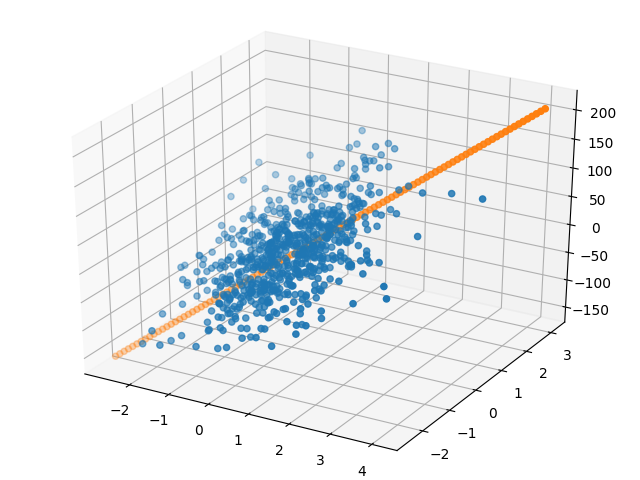
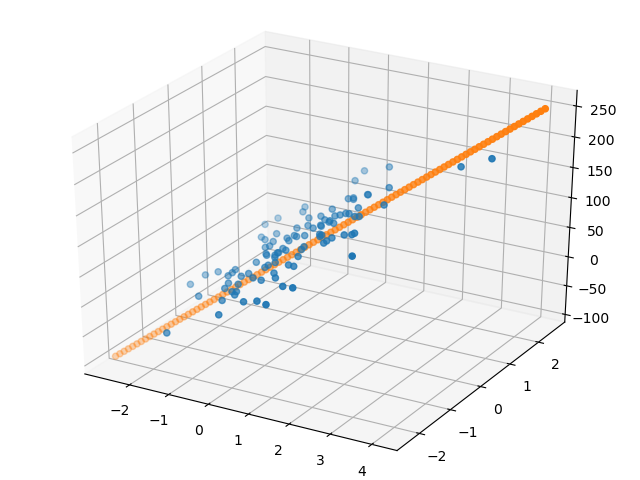
Update regression demos and add docstrings.

diff --git a/classification/regression.py b/classification/regression.py
@@ -1,12 +1,38 @@
 import numpy as np
-import common.optimize as optimize
+
 import common.cost as cost
+import optimization.minimize as minimize
 
 
-def linear_regression(X, y, alpha=0.01, epochs=100):
-    return polynomial_regression(X, y, 1, alpha, epochs)
+def linear_regression(X, y, alpha=0.01, epochs=100, k=64):
+    """Numerical implementation of simple linear regression.
+    
+    Args:
+        X (ndarray, [m, 1]):        input features
+        y (ndarray, [m, 1]):        output labels
+        alpha (float, optional):    learning rate (defaults to 0.01)
+        epochs (int, optional):     number of iterations (defaults to 100)
+        k (int, optional):          mini-batch size (defaults to 64)
+    
+    Returns:
+        theta (ndarray[1, 2]):      regression coefficients (increasing degree)
+    """
+    return polynomial_regression(X, y, 1, alpha, epochs, k)
 
-def polynomial_regression(X, y, p=1, alpha=0.01, epochs=100):
+def polynomial_regression(X, y, p=2, alpha=0.01, epochs=100, k=64):
+    """Numerical implementation of polynomial regression.
+    
+    Args:
+        X (ndarray, [m, 1]):        input features
+        y (ndarray, [m, 1]):        output labels
+        p (int, optional):          degree of polynomial (defaults to 2)
+        alpha (float, optional):    learning rate (defaults to 0.01)
+        epochs (int, optional):     number of iterations (defaults to 100)
+        k (int, optional):          mini-batch size (defaults to 64)
+    
+    Returns:
+        theta (ndarray[1, p+1]):    regression coefficients (increasing degree)
+    """
     # Create polynomial features
     # [[x0^0, x0^1, ..., x0^p], [x1^0, x1^1, ..., x1^p], ... ]
     X = np.power(X, np.arange(0, p+1))
@@ -16,14 +42,29 @@ def polynomial_regression(X, y, p=1, alpha=0.01, epochs=100):
     grad_func = cost.reduce_mean_sse_grad
 
     theta = np.random.rand(1, p+1)
-    theta, costs, grads = optimize.gradient_descent(theta, X, y, cost_func, grad_func, alpha, epochs)
-    return theta, X
+    theta, *_ = minimize.adam(theta, X, y, cost_func, grad_func, alpha, epochs, k)
+    return theta
 
-def multivariate_regression(X, y, alpha=0.01, epochs=100):
+def multivariate_regression(X, y, alpha=0.01, epochs=100, k=64):
+    """Numerical implementation of multivariate linear regression.
+    
+    Args:
+        X (ndarray, [m, n]):        input features
+        y (ndarray, [m, 1]):        output labels
+        alpha (float, optional):    learning rate (defaults to 0.01)
+        epochs (int, optional):     number of iterations (defaults to 100)
+        k (int, optional):          mini-batch size (defaults to 64)
+    
+    Returns:
+        theta (ndarray[1, n+1]):    regression coefficients [bias; c0; c1; ...; cn]
+    """
+    # Create bias feature
+    X = np.hstack((np.ones((X.shape[0], 1)), X))
+
     # Objective function
     cost_func = cost.reduce_mean_sse
     grad_func = cost.reduce_mean_sse_grad
 
     theta = np.random.rand(1, X.shape[1])
-    theta, costs, grads = optimize.gradient_descent(theta, X, y, cost_func, grad_func, alpha, epochs)
-    return theta, X
+    theta, *_ = minimize.adam(theta, X, y, cost_func, grad_func, alpha, epochs, k)
+    return theta

diff --git a/classification/demos.py b/classification/demos.py
@@ -1,17 +1,24 @@
-import numpy as np
 import matplotlib.pyplot as plt
+import numpy as np
 from mpl_toolkits.mplot3d import Axes3D
-import examples
-from .regression import linear_regression, polynomial_regression, multivariate_regression
+
+import dataset_gen
+
+from .regression import (linear_regression, multivariate_regression,
+                         polynomial_regression)
 
 
 def demo_lin_reg():
     # Generate dataset
-    X, y, coeffs = examples.polynomial_fit(50, 1)
+    m = 100
+    X, y, coeffs = dataset_gen.polynomial_fit(m, 1)
 
     # Regression
-    theta, rX = linear_regression(X, y, alpha=0.005, epochs=10000)
+    epochs = 1000
+    theta, rX = linear_regression(X, y, alpha=0.005, k=8, epochs=epochs)
     print("Simple linear regression")
+    print(f"  Number of examples: {m}")
+    print(f"  Epochs: {epochs}")
     print(f"  Actual coeffs: {coeffs}")
     print(f"  Regression coeffs: {theta}\n")
     rX = np.hstack((np.ones(X.shape), X))
@@ -25,14 +32,18 @@ def demo_lin_reg():
 
 def demo_mul_reg():
     # Generate dataset
-    m = 700
-    X, y, coeffs = examples.multivariate_fit(m)
+    m = 100
+    X, y, coeffs, bias = dataset_gen.multivariate_fit(m)
     y = y[..., None]
 
     # Regression
-    theta, rX = multivariate_regression(X, y, alpha=0.005, epochs=10000)
+    epochs = 1000
+    theta, rX = multivariate_regression(X, y, alpha=0.005, k=8, epochs=epochs)
     print("Multivariate regression")
+    print(f"  Number of examples: {m}")
+    print(f"  Epochs: {epochs}")
     print(f"  Actual coeffs: {coeffs}")
+    print(f"  Actual bias: {bias}")
     print(f"  Regression coeffs: {theta}\n")
 
     # Plot data
@@ -40,29 +51,28 @@ def demo_mul_reg():
     ax = Axes3D(fig)
     ax.scatter(X[:, 0], X[:, 1], y)
 
+    fC = np.ones(100)
     fX = X[:, 0].ravel()
-    fY = X[:, 1].ravel()
-    #fZ = ry.ravel()
-    #idx = np.argsort(fX)
-
     fX = np.linspace(fX.min(), fX.max(), 100)
+    fY = X[:, 1].ravel()
     fY = np.linspace(fY.min(), fY.max(), 100)
-    fZ = np.dot(np.vstack((fX, fY)).T, theta.T)
+    fZ = np.dot(np.vstack((fC, fX, fY)).T, theta.T)
 
     ax.scatter(fX, fY, fZ)
-
-    #ax.plot(fX[idx], fY[idx], fZ[idx], "--")
     plt.savefig('demos/demo-mul-reg.png')
     plt.close(fig)
 
 def demo_poly_reg():
     # Generate dataset
-    m, p = 50, 3
-    X, y, coeffs = examples.polynomial_fit(m, p)
+    m, p = 100, 3
+    X, y, coeffs = dataset_gen.polynomial_fit(m, p)
 
     # Regression
-    theta, rX = polynomial_regression(X, y, p=p, alpha=0.005, epochs=10000)
+    epochs = 1000
+    theta, rX = polynomial_regression(X, y, p=p, alpha=0.005, k=8, epochs=epochs)
     print(f"Polynomial regression (p = {p})")
+    print(f"  Number of examples: {m}")
+    print(f"  Epochs: {epochs}")
     print(f"  Actual coeffs: {coeffs}")
     print(f"  Regression coeffs: {theta}\n")
     rX = np.power(X, np.arange(0, p + 1))

diff --git a/dataset_gen.py b/dataset_gen.py
@@ -1,0 +1,19 @@
+import numpy as np
+
+from sklearn import datasets
+
+
+def polynomial_fit(m=100, p=2):
+    X = np.linspace(-3, 3, m).reshape(m, 1)
+    coeffs = np.random.randint(-5, 5, p+1).reshape(1, p+1)
+    poly_features = np.power(X, np.arange(0, p+1))
+    y = np.dot(poly_features, coeffs.T)
+    noise = np.random.randn(m).reshape(m, 1) * (y.max() - y.min()) / 20
+    y = y + noise
+    return X, y, coeffs
+
+def multivariate_fit(m=500, n_features=2):
+    bias = np.random.randint(0, 100)
+    return datasets.make_regression(n_samples=m, n_features=n_features, 
+        n_informative=n_features, noise=0.1, bias=bias, coef=True, random_state=2) + (bias, )
+    
